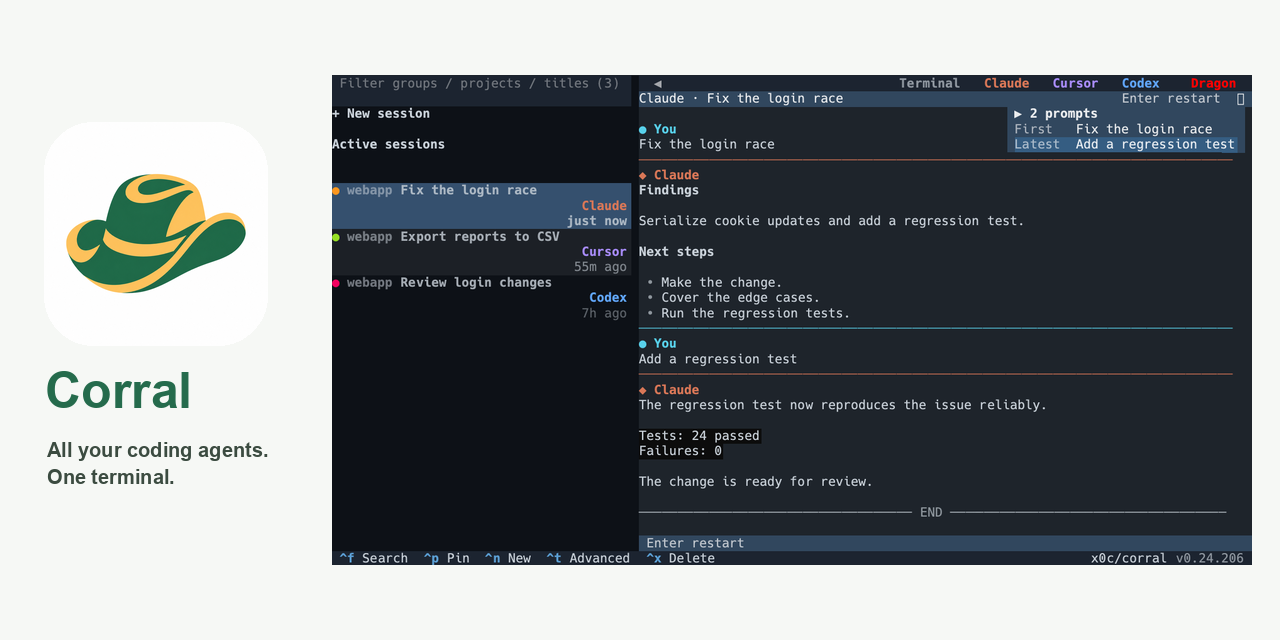
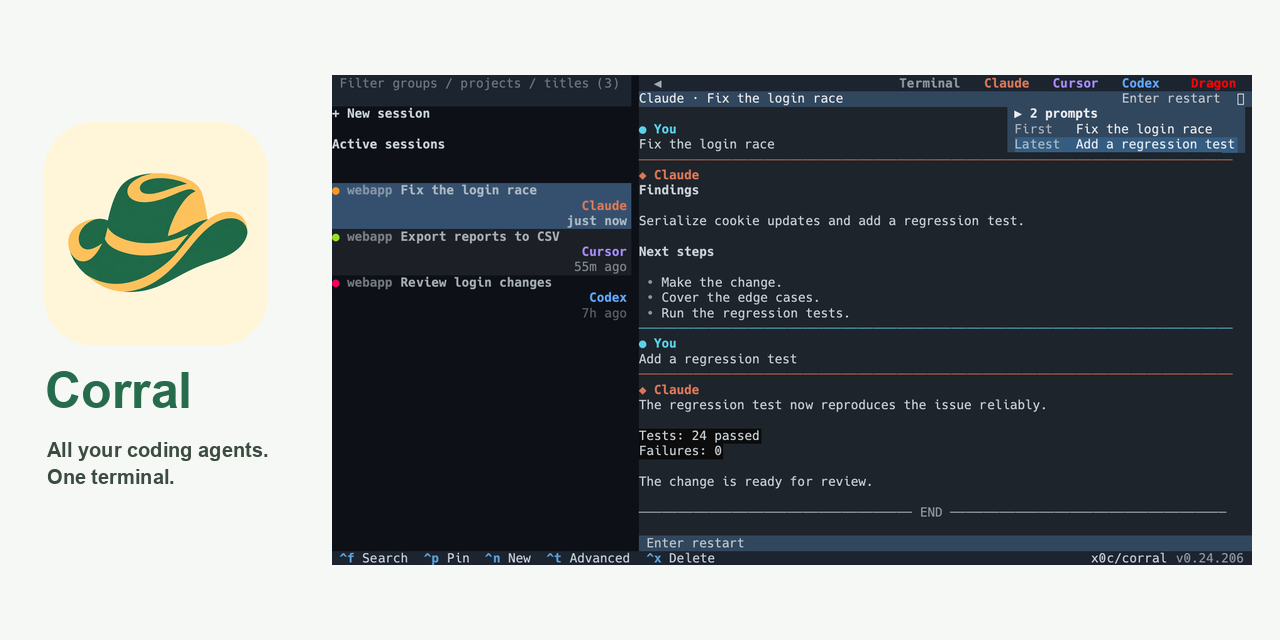
Adopt the cream-yellow hat brand and optical placement

Changed region(s): [[0.0312, 0.1875, 0.2188, 0.5625]]

diff --git a/brand/render.py b/brand/render.py
@@ -58,8 +58,11 @@ def main():
     outputs = [master_path, display_path, card_path]
     manifest = {
         "source_sha256": hashlib.sha256(source.read_bytes()).hexdigest(),
-        "artwork": "Approved yellow-green cowboy hat; white background",
-        "generation": "Built-in imagegen; faithful independent refinement",
+        "background": "#FFF5D9",
+        "optical_shift_px": [9, -6],
+        "refined_hat_sha256": hashlib.sha256((root / "brand/refined-hat.png").read_bytes()).hexdigest(),
+        "artwork": "Approved yellow-green cowboy hat; cream yellow #FFF5D9; optical placement",
+        "generation": "Built-in imagegen refinement; approved deterministic background and optical placement",
         "outputs": {str(path.relative_to(root)): hashlib.sha256(path.read_bytes()).hexdigest() for path in outputs},
     }
     (root / "brand/manifest.json").write_text(json.dumps(manifest, indent=2) + "\n")

diff --git a/docs/PUBLIC_PRESENTATION_GUIDE.md b/docs/PUBLIC_PRESENTATION_GUIDE.md
@@ -2,13 +2,15 @@
 
 ## Product identity
 
-Owner decision (2026-10-01): Corral's unified brand mark is the selected yellow-green cowboy hat, identified by the installed `Corral Contrast 04` comparison app. Preserve its silhouette, internal color boundaries, proportions, flat graphic style, white background, centered placement, and approximately 10% horizontal margins. The selected palette is green `#256B4C` and warm yellow `#F3BF73`; do not infer another preferred palette or redraw the hat into a different shape. Produce one independent refined master with clean curves and crisp edges, then replace every active Corral brand surface, including the English and Chinese README and iOS app icon. This explicitly supersedes the former blue-background unicorn identity and the unfinished redesign brief.
+Owner decision (2026-10-01, final background selection): Corral's unified brand mark is the existing refined yellow-green cowboy hat on cream yellow `#FFF5D9`, selected as `Corral BG 01` in the installed background comparison. Preserve the refined hat silhouette, internal boundaries, color pixels and proportions. Use the accepted preview's optical placement (approximately 80% subject width; +9px horizontal and -6px vertical compensation on the 1024px canvas). This supersedes the earlier white-background requirement without changing the approved hat palette. Synchronize every active brand surface, including both READMEs and the iOS app icon. The former arrow, horse and blue-background unicorn identities remain retired.
 
 The canonical production master is `brand/AppIcon-1024.png`. The iOS catalog at `../../ios/Corral/Assets.xcassets/AppIcon.appiconset/AppIcon.png` consumes the same master. README presentation uses `docs/screenshots/corral-icon.png`, a compact rounded display derivative. Keep the application master square and opaque; do not embed the 1024 master in an SVG for GitHub. Retired arrow, horse and unicorn artwork must not remain active brand alternatives. Assistant-provider logos retain their own official identities.
 
-All presentation derivatives come from that master. `brand/render.py` deterministically prepares the 1024px app asset, rounded README display image and social-preview card. Relay documentation uses the same rounded image. Keep the source artwork and its refinement prompt in `brand/`; do not rely on machine-local generation paths. Use the existing sanitized terminal capture in the social card without replacing the live product demonstration in the README.
+All presentation derivatives come from that master. `brand/render.py` deterministically prepares the 1024px app asset, rounded README display image and social-preview card. Relay documentation uses the same rounded image. Keep the accepted cream-yellow composition as `brand/source.png`, the original independent refinement as `brand/refined-hat.png`, and its refinement prompt in `brand/`; do not rely on machine-local generation paths. Use the existing sanitized terminal capture in the social card without replacing the live product demonstration in the README.
 
-Brand verification (2026-10-01): the independent master passed 48px and 24px contrast checks (6.48:1 and 5.25:1 luminance spans). The iOS app master is byte-identical to `brand/AppIcon-1024.png`; CLI and relay README display images are byte-identical. The full signed iOS Release build and 233 portable regressions passed. iOS 1.0.79 (89) was installed and version-readback verified on iPhone Max, and the signed artifact was uploaded to AppShelf. Both GitHub README variants were visually verified in the browser. The captured phone screen did not show Corral, so Home Screen icon appearance remains unverified. The social card file is published, but the GitHub custom social-preview setting remains unchanged because the browser is not authenticated.
+Cream-yellow asset verification (2026-10-01): 48px and 24px contrast checks passed (6.01:1 and 4.63:1 luminance spans). The iOS master is byte-identical to the canonical CLI master; CLI and relay README display images are byte-identical. The master preserves the accepted installed `Corral BG 01` composition and pixels. Physical-device delivery and Home Screen appearance remain separate acceptance layers.
+
+The earlier white-background release was installed as iOS 1.0.79 (89). The social card file is published through the repository; the GitHub custom social-preview setting was not updated because the browser was not authenticated.
 
 ## README contract
 

diff --git a/TASKBOARD.md b/TASKBOARD.md
@@ -4,6 +4,7 @@
 
 | 任务 | 状态 | 影响范围 | 开始 | 最近更新 | 备注 |
 |---|---|---|---|---|---|
+| Cream-yellow brand finalization | 进行中 | Shared brand assets/docs; README display derivatives; iOS AppIcon and version/delivery | 10-01 | 2026-10-01 | Primary model owns approved cream-yellow background and optical placement; preserve hat artwork and foreign changes. |
 | Rename Copy Session to Fork Session (both clients) | 验证中 | i18n.py session fork strings; registry copy suffix recognition if needed; related terminology docs/tests; coordinator version/release 0.24.246 | 10-01 12:48 | 2026-10-01 13:53 | Accepted worker; 2120 full tests + 56 runtime + 12 real-terminal checks pass; installed 0.24.246 en/zh UI proof passed. Release closeout detached PID 33709, callback registered; log /tmp/corral-fork-release-job/release.log. iOS 1.0.77(87) installed/uploaded, phone menu screenshot black/unverified. |
 | Hide Codex native question reply envelope on phone | 进行中 | remote/richmsg.py native reply projection/settlement; transcript_cache.py parser version only; related regressions; coordinator docs/release/install | 2026-10-01 11:43 | 2026-10-01 11:57 | Same Muse Spark worker correction: long-answer truncation leak, strict envelope shape, persisted-cache invalidation; preserve foreign edits |
 | Notification framing-eviction acceptance and delivery | 进行中 | SessKit native-finality identity contract; same worker parser/tests; coordinator pins/complete-tree release/install/notification preferences | 2026-10-01 | 2026-10-01 | 0.24.244/0.2.5 dual-host shipped and ordinary cases green; 42KB no-terminal fixture with all modern framing outside head/tail still falsely captures1. Same worker continues; doc-first native-evidence identity gate recorded; temporarily mute end-push, preserve original preferences. |
